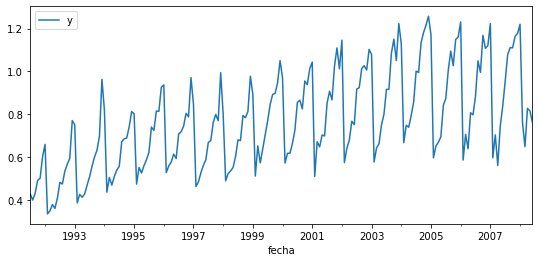
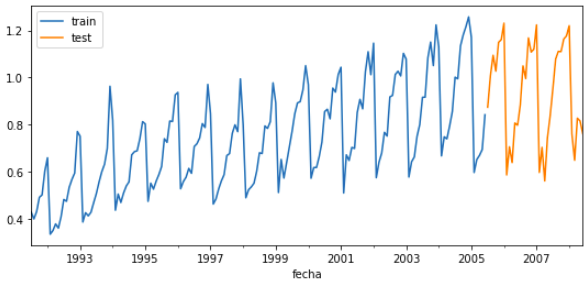
added docs

Changed region(s): [[0.0, 0.0, 1.0, 1.0]]

diff --git a/docs/guides/autoregresive_forecaster_exogenous.md b/docs/guides/autoregresive_forecaster_exogenous.md
@@ -1,17 +1,5 @@
-# Recursive multi-step forecasting
+# Recursive multi-step forecasting with exogenous variables
 
-Since the value of *t(n)* is required to predict the point *t(n-1)*, and *t(n-1)* is unknown, it is necessary to make recursive predictions in which, each new prediction, is based on the previous one. This process is known as recursive forecasting or recursive multi-step forecasting.
-
-<p><img src="../img/forecasting_multi-step.gif" alt="forecasting-python" title="forecasting-python"></p>
-
-<br>
-
-The main challenge when using scikit-learn models for recursive multi-step forecasting is transforming the time series in an matrix where, each value of the series, is related to the time window (lags) that precedes it. This forecasting strategy can be easily generated with the classes `ForecasterAutoreg` and `ForecasterAutoregCustom`.
-
-<p><img src="../img/transform_timeseries.gif" alt="forecasting-python" title="forecasting-python"></p>
-
-<center><font size="2.5"> <i>Time series  transformation into a matrix of 5 lags and a vector with the value of the series that follows each row of the matrix.</i></font></center>
-<br><br>
 
 # Example
 
@@ -44,20 +32,32 @@ datos = datos.asfreq('MS')
 datos = datos['y']
 datos = datos.sort_index()
 
+# Exogenous variable
+# ==============================================================================
+datos_exog = datos.rolling(window=10, closed='right').mean() + 0.5
+datos_exog = datos_exog[10:]
+datos = datos[10:]
+
+# Plot
+# ==============================================================================
+fig, ax=plt.subplots(figsize=(9, 4))
+datos.plot(ax=ax, label='y')
+datos_exog.plot(ax=ax, label='exogenous variable')
+ax.legend();
+```
+<img src="../img/data_with_exogenous.png">
+
+
+```python
 # Split train-test
 # ==============================================================================
 steps = 36
 datos_train = datos[:-steps]
 datos_test  = datos[-steps:]
 
-# Plot
-# ==============================================================================
-fig, ax=plt.subplots(figsize=(9, 4))
-datos_train.plot(ax=ax, label='train')
-datos_test.plot(ax=ax, label='test')
-ax.legend();
+datos_exog_train = datos_exog[:-steps]
+datos_exog_test  = datos_exog[-steps:]
 ```
-<img src="../img/data.png">
 
 # Train forecaster
 
@@ -65,21 +65,12 @@ ax.legend();
 ```python
 # Create and fit forecaster
 # ==============================================================================
-forecaster = ForecasterAutoregCustom(
-                    regressor      = RandomForestRegressor(random_state=123),
-                    fun_predictors = create_predictors,
-                    window_size    = 20
-                )
+forecaster = ForecasterAutoreg(
+                    regressor = LinearRegression(),
+                    lags      = 8
+             )
 
-forecaster.fit(y=datos_train)
-```
-
-```
-=======================ForecasterAutoreg=======================
-Regressor: LinearRegression()
-Lags: [ 1  2  3  4  5  6  7  8  9 10 11 12 13 14 15]
-Exogenous variable: False
-Parameters: {'copy_X': True, 'fit_intercept': True, 'n_jobs': None, 'normalize': False, 'positive': False}
+forecaster.fit(y=datos_train, exog=datos_exog_train)
 ```
 
 # Prediction 
@@ -88,11 +79,11 @@ Parameters: {'copy_X': True, 'fit_intercept': True, 'n_jobs': None, 'normalize':
 # Predict
 # ==============================================================================
 steps = 36
-predictions = forecaster.predict(steps=steps)
+predictions = forecaster.predict(steps=steps, exog=datos_exog_test)
 # Add datetime index to predictions
 predictions = pd.Series(data=predictions, index=datos_test.index)
 
-# Prediction error
+# Error prediction
 # ==============================================================================
 error_mse = mean_squared_error(
                 y_true = datos_test,
@@ -109,8 +100,9 @@ predictions.plot(ax=ax, label='predictions')
 ax.legend();
 ```
 
+
 ```
-Test error (mse): 0.011051937043503587
+Test error (mse): 0.020306077140235308
 ```
 
-<img src="../img/prediction.png">
+<img src="../img/prediction_with_exog.png">

diff --git a/docs/guides/custom_predictors.md b/docs/guides/custom_predictors.md
@@ -1,1 +1,128 @@
-# Custom predictors
+# Custom predictors for  recursive multi-step forecasting
+
+
+# Example
+
+## Data
+
+```python
+# Libraries
+# ==============================================================================
+import numpy as np
+import pandas as pd
+import matplotlib.pyplot as plt
+
+from skforecast.ForecasterAutoreg import ForecasterAutoregCustom
+from sklearn.linear_model import LinearRegression
+from sklearn.metrics import mean_squared_error
+```
+
+```python
+# Download data
+# ==============================================================================
+url = ('https://raw.githubusercontent.com/JoaquinAmatRodrigo/skforecast/master/data/h2o.csv')
+datos = pd.read_csv(url, sep=',')
+
+# Data preprocessing
+# ==============================================================================
+datos['fecha'] = pd.to_datetime(datos['fecha'], format='%Y/%m/%d')
+datos = datos.set_index('fecha')
+datos = datos.rename(columns={'x': 'y'})
+datos = datos.asfreq('MS')
+datos = datos['y']
+datos = datos.sort_index()
+
+# Split train-test
+# ==============================================================================
+steps = 36
+datos_train = datos[:-steps]
+datos_test  = datos[-steps:]
+
+# Plot
+# ==============================================================================
+fig, ax=plt.subplots(figsize=(9, 4))
+datos_train.plot(ax=ax, label='train')
+datos_test.plot(ax=ax, label='test')
+ax.legend();
+```
+<img src="../img/data.png">
+
+## Custom predictors
+
+
+
+```python
+# Custom function to create poredictors
+# ==============================================================================
+def create_predictors(y):
+    '''
+    Create first 10 lags of a time series.
+    Calculate moving average with window 20.
+    '''
+    
+    X_train = pd.DataFrame({'y':y.copy()})
+    for i in range(0, 10):
+        X_train[f'lag_{i+1}'] = X_train['y'].shift(i)
+        
+    X_train['moving_avg'] = X_train['y'].rolling(20).mean()
+    
+    X_train = X_train.drop(columns='y').tail(1).to_numpy()  
+    
+    return X_train  
+```
+
+# Train forecaster
+
+
+```python
+# Create and fit forecaster
+# ==============================================================================
+forecaster = ForecasterAutoreg(
+                    regressor = LinearRegression(),
+                    lags      = 15
+                )
+
+forecaster.fit(y=datos_train)
+forecaster
+```
+
+```
+=======================ForecasterAutoreg=======================
+Regressor: LinearRegression()
+Lags: [ 1  2  3  4  5  6  7  8  9 10 11 12 13 14 15]
+Exogenous variable: False
+Parameters: {'copy_X': True, 'fit_intercept': True, 'n_jobs': None, 'normalize': False, 'positive': False}
+```
+
+# Prediction 
+
+```python
+# Predict
+# ==============================================================================
+steps = 36
+predictions = forecaster.predict(steps=steps)
+# Add datetime index to predictions
+predictions = pd.Series(data=predictions, index=datos_test.index)
+
+# Prediction error
+# ==============================================================================
+error_mse = mean_squared_error(
+                y_true = datos_test,
+                y_pred = predictions
+            )
+print(f"Test error (mse): {error_mse}")
+
+# Plot
+# ==============================================================================
+fig, ax=plt.subplots(figsize=(9, 4))
+datos_train.plot(ax=ax, label='train')
+datos_test.plot(ax=ax, label='test')
+predictions.plot(ax=ax, label='predictions')
+ax.legend();
+```
+
+```
+Test error (mse): 0.011051937043503587
+```
+
+<img src="../img/prediction.png">

diff --git a/docs/guides/forecasting-methods.md b/docs/guides/forecasting-methods.md
@@ -1,10 +1,10 @@
 
-# Forcasting methods
+# Introduction to forcasting
 
-## Time Series
+## Time Series and forecasting
 
 
-A time series is a sequence of data arranged chronologically, in principle, equally spaced in time. Time series forecasting is the use of a model to predict future values based on previously observed values, with the option of also including other external variables.
+A time series is a sequence of data arranged chronologically, in principle, equally spaced in time. Time series forecasting is the use of models to predict future values based on previously observed values, with the option of also including other external variables.
 
 When working with time series, it is seldom needed to predict only the next element in the series (*t+1*). Instead, the most common goal is to predict a whole future interval (*t+1, ..., t+n*)  or a far point in time (*t+n*). There are several strategies that allow generating this type of multiple predictions.
 <br>
